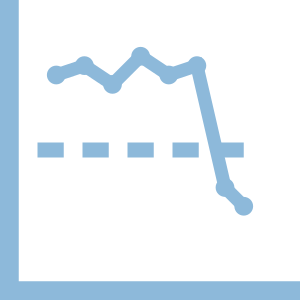
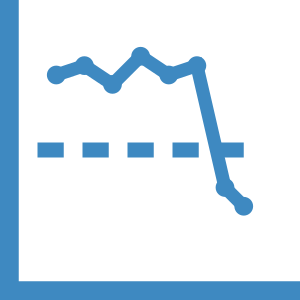
fix(brand): gør ikonets blå mørkere, så den kan aflæses
rgb(141,185,218) havde 2,08:1 i kontrast mod hvid. Grafik bør have
mindst 3:1 for at kunne aflæses, så farven var under minimum — ikke kun
en smagssag.

rgb(62,137,193) har samme nuance (206°) og samme mætning (51 %); kun
lysheden er sænket. Den lander på 3,78:1.

Mørkere gør den mere læsbar på lys baggrund, men svagere på mørkt tema,
hvor forholdet vender. Dette punkt holder i begge, og begrundelsen står
i assets/README.md.

diff --git a/assets/README.md b/assets/README.md
@@ -18,8 +18,16 @@ runs-analysen leder efter.
 
 ## Farven
 
-Står ét sted i `icon.svg`, som `#8db9da`, tre gange (fill på `<svg>`, og stroke
-på centerlinjen og på serielinjen).
+`#3e89c1` — rgb(62, 137, 193). Står tre steder i `icon.svg`: fill på `<svg>`,
+og stroke på centerlinjen og på serielinjen.
+
+Tonen kommer fra biSPCharts, oprindeligt rgb(141, 185, 218). Den viste sig for
+lys: 2,08:1 i kontrast mod hvid, hvor grafik bør have mindst 3:1 for at kunne
+aflæses. Farven her har samme nuance (206°) og samme mætning (51 %), men lavere
+lyshed, og lander på 3,78:1.
+
+Mørkere end dette gør den mere læsbar på lys baggrund, men svagere på mørkt
+tema, hvor forholdet vender. 3,78:1 er valgt som det punkt, der holder i begge.
 
 ## Stregvægte
 
